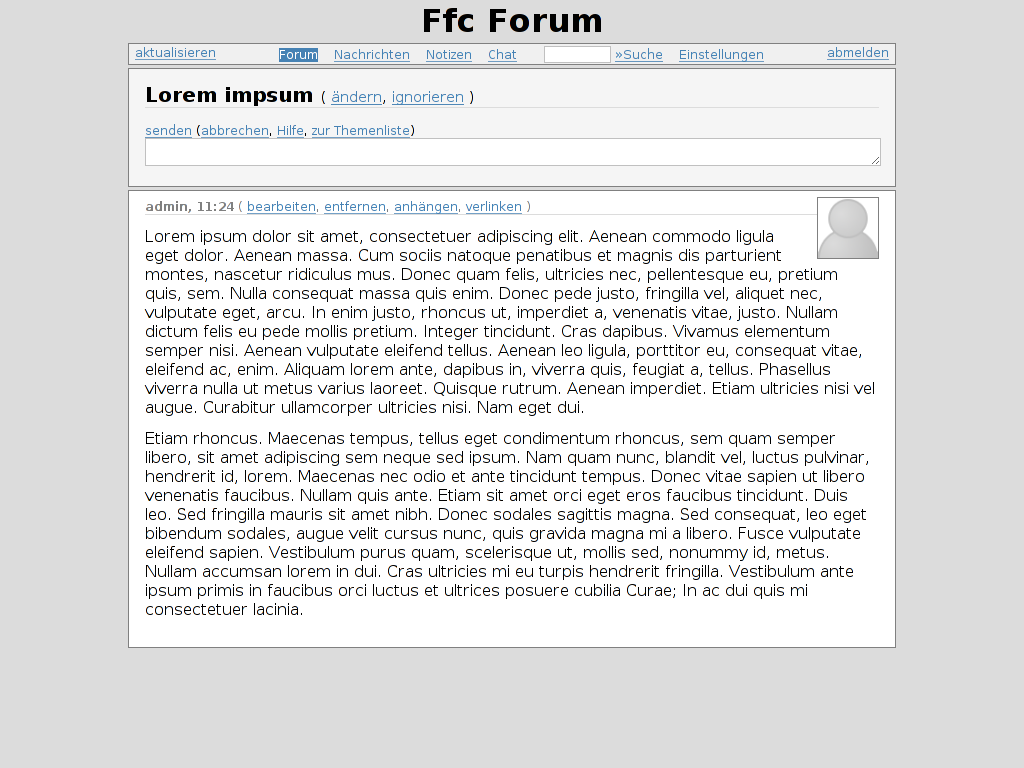
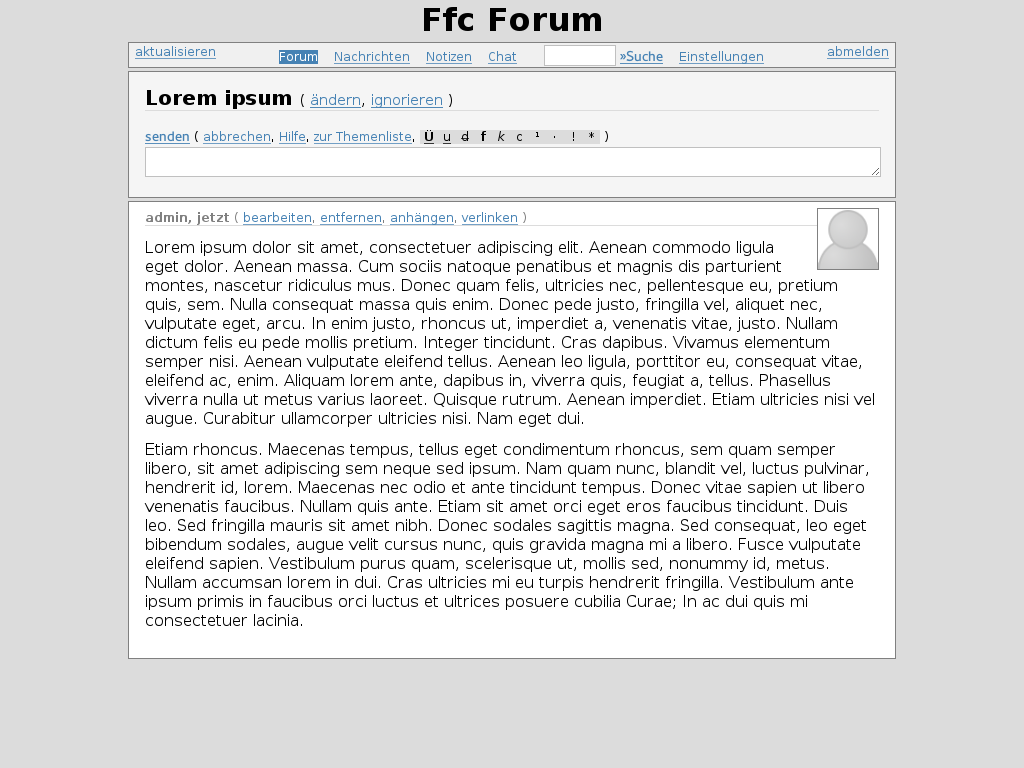
Editbuttons dokumentiert in der Readme und im Screenshot + smarteres Texteingabefeldaufundzuklappen bei aktivem Javascript

Changed region(s): [[0.125, 0.2188, 0.875, 0.8125], [0.125, 0.0, 0.875, 0.1875], [0.125, 0.8438, 0.875, 0.875]]

diff --git a/public/js/editbuttons.js b/public/js/editbuttons.js
@@ -72,6 +72,24 @@ window.onload = function(){
         position(sel[1] + ( 2 * str.length ) + ( cnt.length * str.length ) + border[0].length);
     };
 
+    // Textfeld-Klappungen
+    var tinputclass = tinput.className;
+    var tap = document.getElementById('closetextap');
+    var closetextarea = function(){ 
+        // console.log('closetext');
+        tinput.className = tinputclass;
+        tap.className = 'textright nodisplay';
+    };
+    var opentextarea = function(){
+        // console.log('opentext');
+        if ( tap.className !== 'textright nodisplay' ) return;
+        if ( !tinputclass )
+            tinput.className = 'inedit';
+        else
+            tinput.className = tinputclass + ' inedit';
+        tap.className = 'textright displayblock';
+    };
+
     // Buttonereignisse registrieren
     document.getElementById('h1button').onclick            = function(){ linestarter('= ') };
     document.getElementById('unorderedlistbutton').onclick = function(){ linestarter('- ') };
@@ -83,4 +101,6 @@ window.onload = function(){
     document.getElementById('italicbutton').onclick        = function(){ strngescape('~')  };
     document.getElementById('attentionbutton').onclick     = function(){ strngescape('!')  };
     document.getElementById('emotionalbutton').onclick     = function(){ strngescape('*')  };
+    document.getElementById('closetextabutton').onclick    = closetextarea;
+    tinput.onfocus = opentextarea;
 };

diff --git a/public/theme/colors.css b/public/theme/colors.css
@@ -215,4 +215,13 @@ input[type="text"].titlestring {
     background: white;
     color: black;
 }
+.nodisplay {
+    display: none;
+}
+.blockdisplay {
+    display: block;
+}
+.textright {
+    text-align: right;
+}
 

diff --git a/public/theme/large.css b/public/theme/large.css
@@ -186,4 +186,7 @@ input[type="text"].titlestring {
 .buttonalike, .buttonalike:active, .buttonalike:focus {
     margin-bottom: .25em;
 }
+#closetextap {
+    margin-top: .25em;
+}
 

diff --git a/public/theme/small.css b/public/theme/small.css
@@ -81,7 +81,7 @@ img {
     max-width: 13em;
     max-height: 8em;
 }
-.editbuttons {
+.editbuttons, .closetextap {
     display: none;
 }
 

diff --git a/README.md b/README.md
@@ -56,7 +56,7 @@ Features
   * Mehrzeilige Chatnachrichten möglich
   * Hervorhebungen für URLs, Quelltext (mit spezieller Notation '/code') sowie den eigenen Benutzernamen in Chatnachrichten möglich
   * Chatnachrichten werden immer nur nach festgelegtem und einfach änderbaren Intervallen abgeholt
-* Beiträge werden in einem prominenten Feld gleich oben auf einer entsprechenden Webseite eingegeben, dieses Textfeld klappt sich via CSS automatisch auf, wenn man in das kleine Feld hinein klickt oder beim Bearbeiten eines Beitrages
+* Beiträge werden in einem prominenten Feld gleich oben auf einer entsprechenden Webseite eingegeben, dieses Textfeld klappt sich via CSS oder JavaScript automatisch auf, wenn man in das kleine Feld hinein klickt oder beim Bearbeiten eines Beitrages
 * Die Webseite kann sich über Javascript automatisch innerhalb eines vom Benutzer festgelegten Zeitintervalles (Default 3 Minuten) neu laden, sobald sie im Hintergrund ist und kein Text im Beitragstextfeld eingegeben wurde
 * Das Forum kann mit einem einzigen Kommando eingerichtet werden, wobei ein initialer Administratoraccount sofort mit angelegt wird für die weiterführende Konfiguration
 * Das Forum arbeitet innerhalb eines festgelegten Verzeichnisses
@@ -74,6 +74,7 @@ Features
 * Autoren können ihre Beiträge im Forum oder in den Notzen jederzeit löschen, nicht jedoch in den Privatnachrichten
 * Uploads können jederzeit vom hochladenden Benutzer gelöscht werden
 * Alle Beiträge können mit einer Art Markup versehen werden
+  * Bei aktivem JavaScript im Browser bietet die Software die Möglichkeit, dieses Markup mit Hilfe von Formatierungsbuttons über dem Texteingabefeld einzutragen
 * Links in Beiträgen werden automatisch erkannt und als HTML-Links dargestellt
 * Bilder in Anhängen werden automatisch erkannt und als HTML-Bildervorschauen dargestellt
 * Beiträge und Forenüberschriften können durchsucht werden über ein einfaches Suchfeld in der Menüzeile
